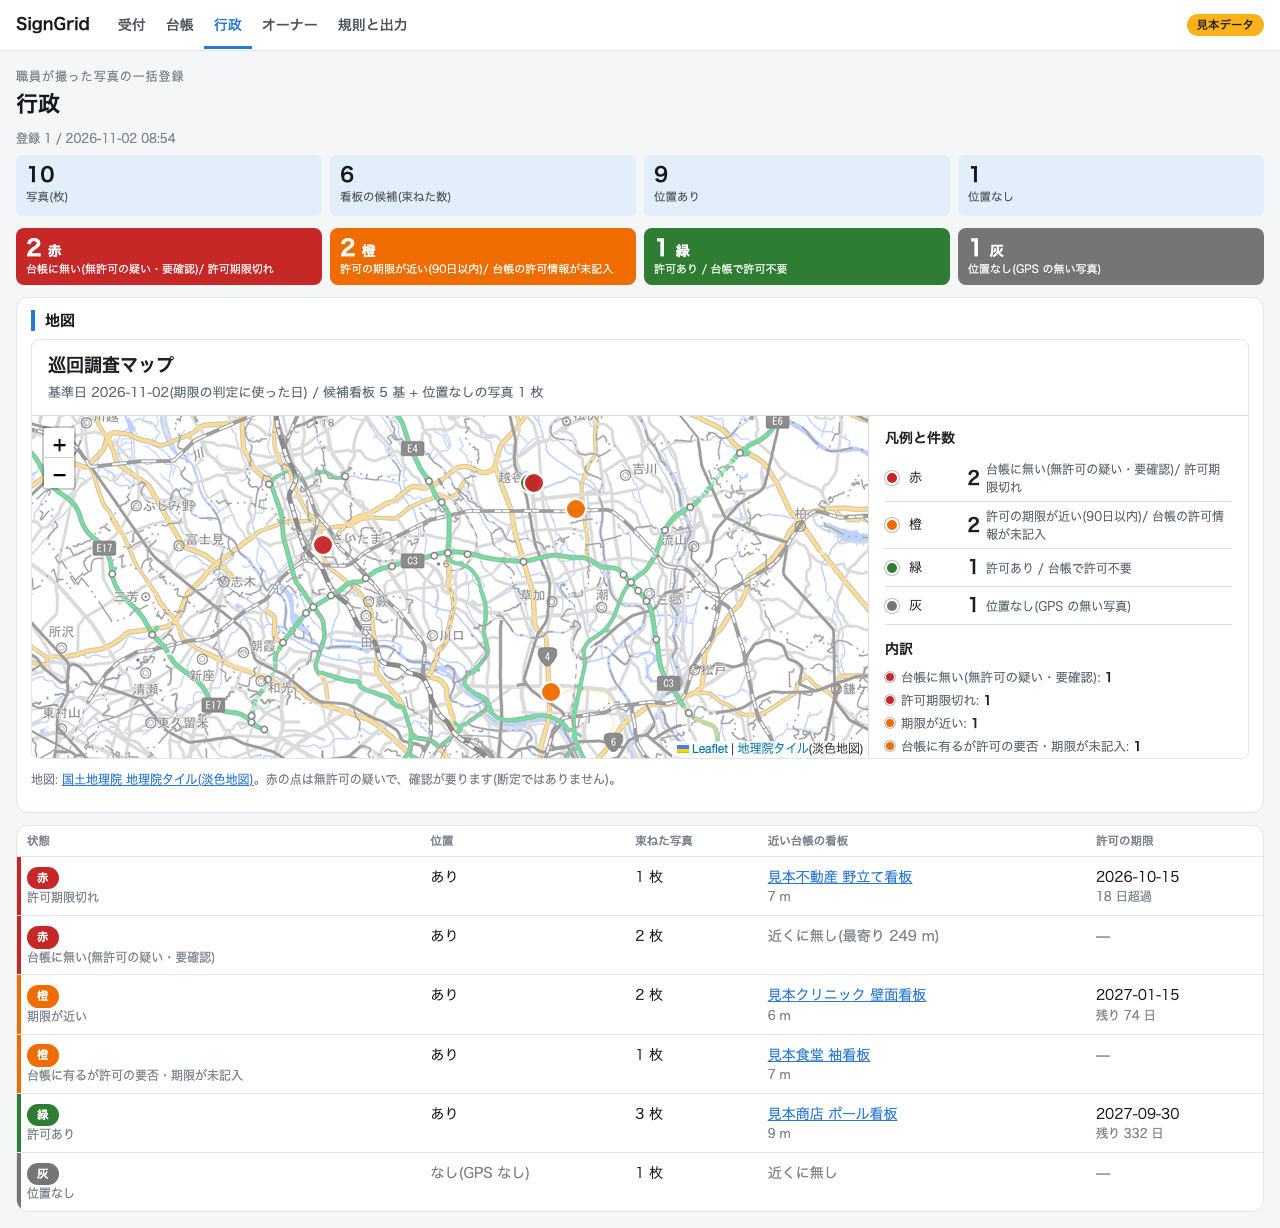
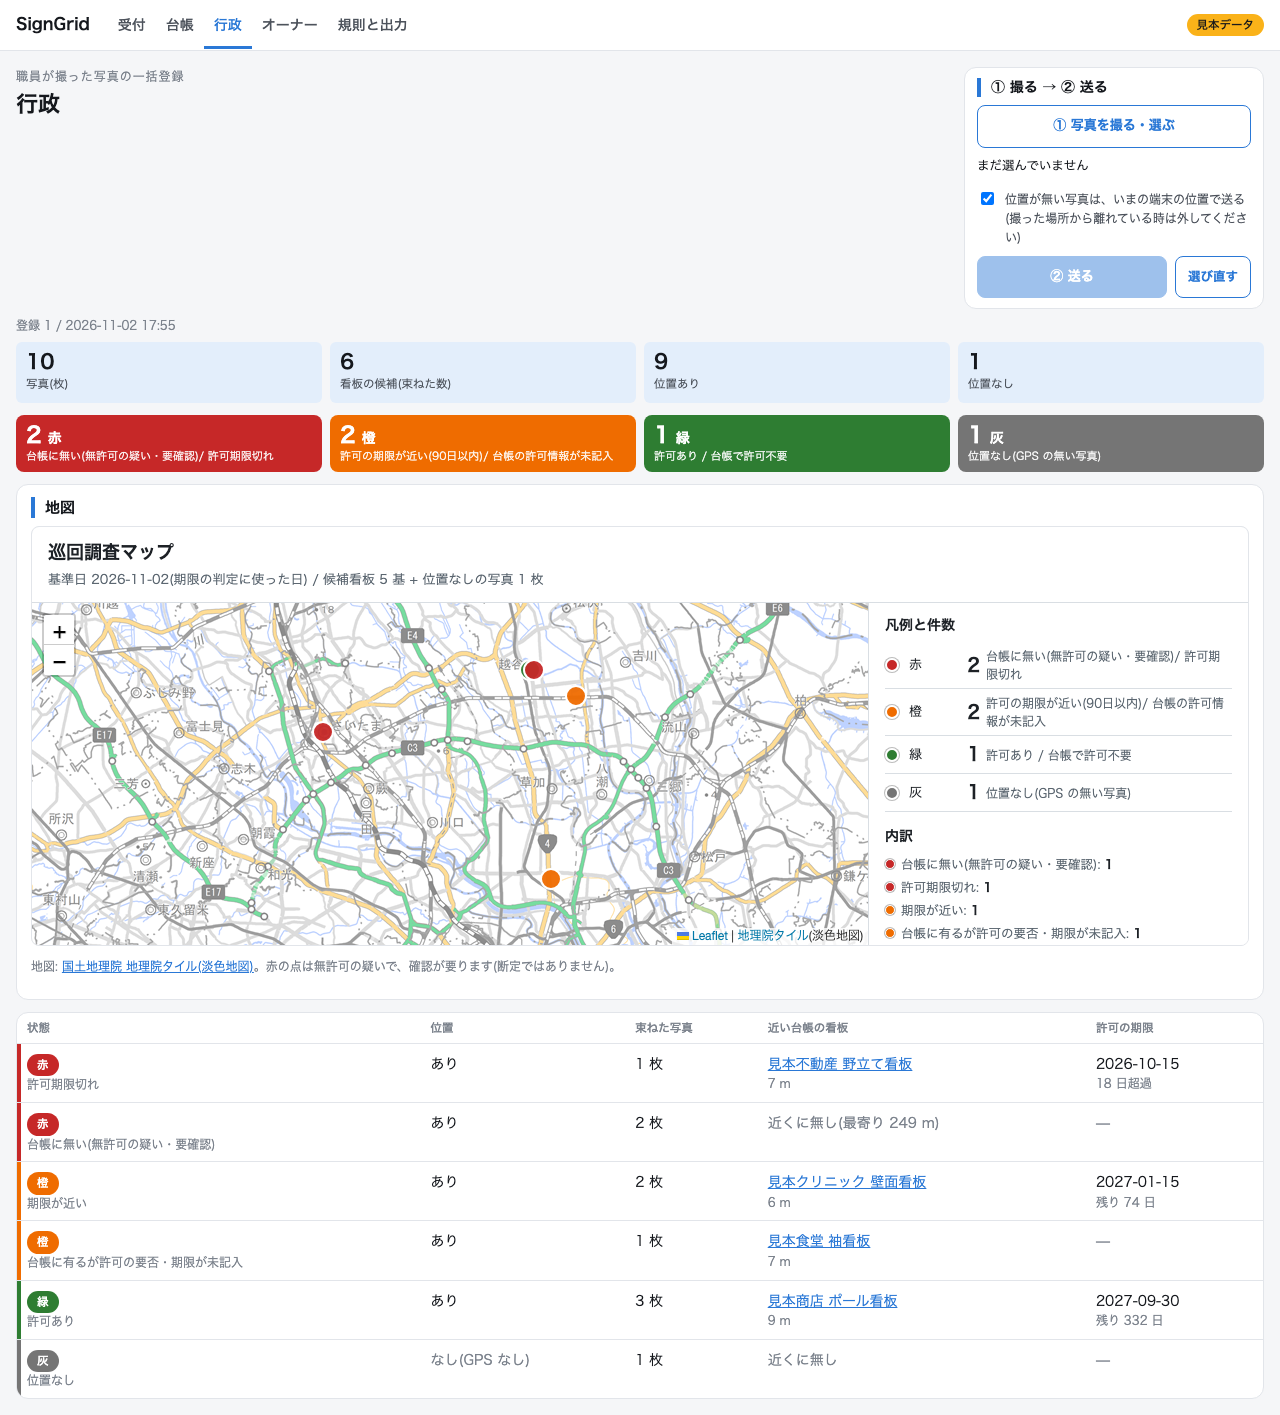
Gov: one card per candidate on phones, map 60vh, gov-capture screenshots (pc/sp) via web_screenshots --only gov

diff --git a/kanban_karte/web/static/app.css b/kanban_karte/web/static/app.css
@@ -295,9 +295,16 @@ dialog#lightbox::backdrop{background:rgba(0,0,0,.7)}
   .gov-sel,.gov-device{font-size:13.5px}
   .gov-chips{grid-template-columns:1fr 1fr}
   .gov-count small{display:none}
-  .gov-map iframe{height:320px}
-  .gov-table .c-state{order:1;flex:1 1 100%}
-  .gov-table .c-pos,.gov-table .c-photos,.gov-table .c-sign,.gov-table .c-exp{order:2}
+  .gov-map iframe{height:60vh}
+  /* 候補表: 1行1枚のカード。上段=色チップと状態 / 期限、中段=住所と写真の枚数、下段=台帳との一致候補と距離 */
+  .gov-table tr.cand{display:grid;grid-template-columns:minmax(0,1fr) auto;gap:6px 12px;align-items:start}
+  .gov-table .c-state{grid-column:1;grid-row:1}
+  .gov-table .c-exp{grid-column:2;grid-row:1;text-align:right}
+  .gov-table .c-pos{grid-column:1;grid-row:2}
+  .gov-table .c-photos{grid-column:2;grid-row:2;text-align:right;white-space:nowrap}
+  .gov-table .c-sign{grid-column:1 / -1;grid-row:3;padding-top:6px;border-top:1px solid var(--line);font-size:13.5px}
+  .gov-table .c-sign .sub{display:inline;margin-left:6px}
+  .gov-table .c-pos::before,.gov-table .c-photos::before{content:none !important}
 }
 @media (max-width:760px){
   .intake .c-kind{order:1} .intake .c-file{order:2;flex:1 1 60%} .intake .c-state{order:3} .intake .c-count{order:4}

diff --git a/tools/web_screenshots.py b/tools/web_screenshots.py
@@ -3,7 +3,7 @@
   python3 tools/web_screenshots.py [--out docs/img] [--only ledger,karte,...]
 
 撮る画面: ledger(台帳)、karte(カルテ)、karte-legal(カルテの法規カード)、karte-edit(黄色のマスを直した後)、karte-confirmed(確定後)、
-rules(規則と出力)、intake(受付)、gov(行政。gov.make_sample の見本の束を入れる)、owner(オーナー。見本の寸法で「調べる」まで)、owner-saitama(同、埼玉県の住所・全高 5m)、
+rules(規則と出力)、intake(受付)、gov(行政。gov.make_sample の見本の束を入れる。続けて見本の写真をスマホ投入の入口から送った直後 = gov-capture-pc/sp)、owner(オーナー。見本の寸法で「調べる」まで)、owner-saitama(同、埼玉県の住所・全高 5m)、
 owner-estimate(オーナーの「寸法を推定」後。推定役は固定値の見本で、API は呼ばない)。
 karte-edit 以降は台帳を書き換えるので、一時の台帳でだけ行う(見本の JSON は変わらない)。
 guide = ガイド付き点検(docs/LINE.md)で作った看板のカルテ(guide-karte-pc/sp)。模擬 webhook で見本の台本を一周する。`--only guide` のときだけ撮る。
@@ -116,6 +116,28 @@ def run(page, base, out, tag, only, db=None):
         page.wait_for_timeout(2500)  # 地図(Leaflet・地理院タイル)の読み込み待ち
         page.evaluate("window.scrollTo(0, 0)")
         page.screenshot(path=str(out / f"gov-{tag}.png"), full_page=True)
+        # スマホからの投入: 見本の写真(GPS 入り9枚 + GPS なし1枚)を選んで送った直後の画面。GPS なしの1枚は端末の位置(許可つきの偽の測位)で送る
+        page.context.grant_permissions(["geolocation"])
+        page.context.set_geolocation({"latitude": 35.8910, "longitude": 139.7908})
+        page.goto(f"{base}/#/gov?today=2026-11-02")
+        page.wait_for_selector("#gov-photo", state="attached")
+        photos = sorted(str(p) for p in (Path(db).parent / "gov" / "photos").glob("*.jpg"))
+        page.set_input_files("#gov-photo", photos)
+        page.wait_for_function("document.querySelector('.gov-sel').textContent.startsWith('%d 枚')" % len(photos))
+        page.screenshot(path=str(out / f"gov-capture-select-{tag}.png"), full_page=False)
+        page.click(".gov-capture button:has-text('送る')")
+        page.wait_for_selector(".gov-done", timeout=20000)
+        page.locator(".gov-map iframe").scroll_into_view_if_needed()  # 遅延読み込みの地図を出す
+        page.frame_locator(".gov-map iframe").locator(".leaflet-tile-loaded").first.wait_for(timeout=15000)
+        page.wait_for_timeout(1500)  # 地図の読み込み待ち
+        page.screenshot(path=str(out / f"gov-capture-map-{tag}.png"))  # 地図が見える位置の画面
+        # 全面撮りだと地図(iframe)が灰色になるので、地図の高さ(60vh)を固定してから、画面の高さを全体に伸ばして1枚で撮る
+        page.add_style_tag(content=".gov-map iframe{height:%dpx !important}" % (VIEWPORTS[tag]["height"] * 6 // 10))
+        page.evaluate("window.scrollTo(0, 0)")
+        page.set_viewport_size({"width": VIEWPORTS[tag]["width"], "height": page.evaluate("document.documentElement.scrollHeight")})
+        page.wait_for_timeout(2500)
+        page.screenshot(path=str(out / f"gov-capture-{tag}.png"))
+        print(out / f"gov-capture-{tag}.png")
     if want("owner"):
         page.goto(f"{base}/#/owner")
         page.wait_for_selector("main .owner")
